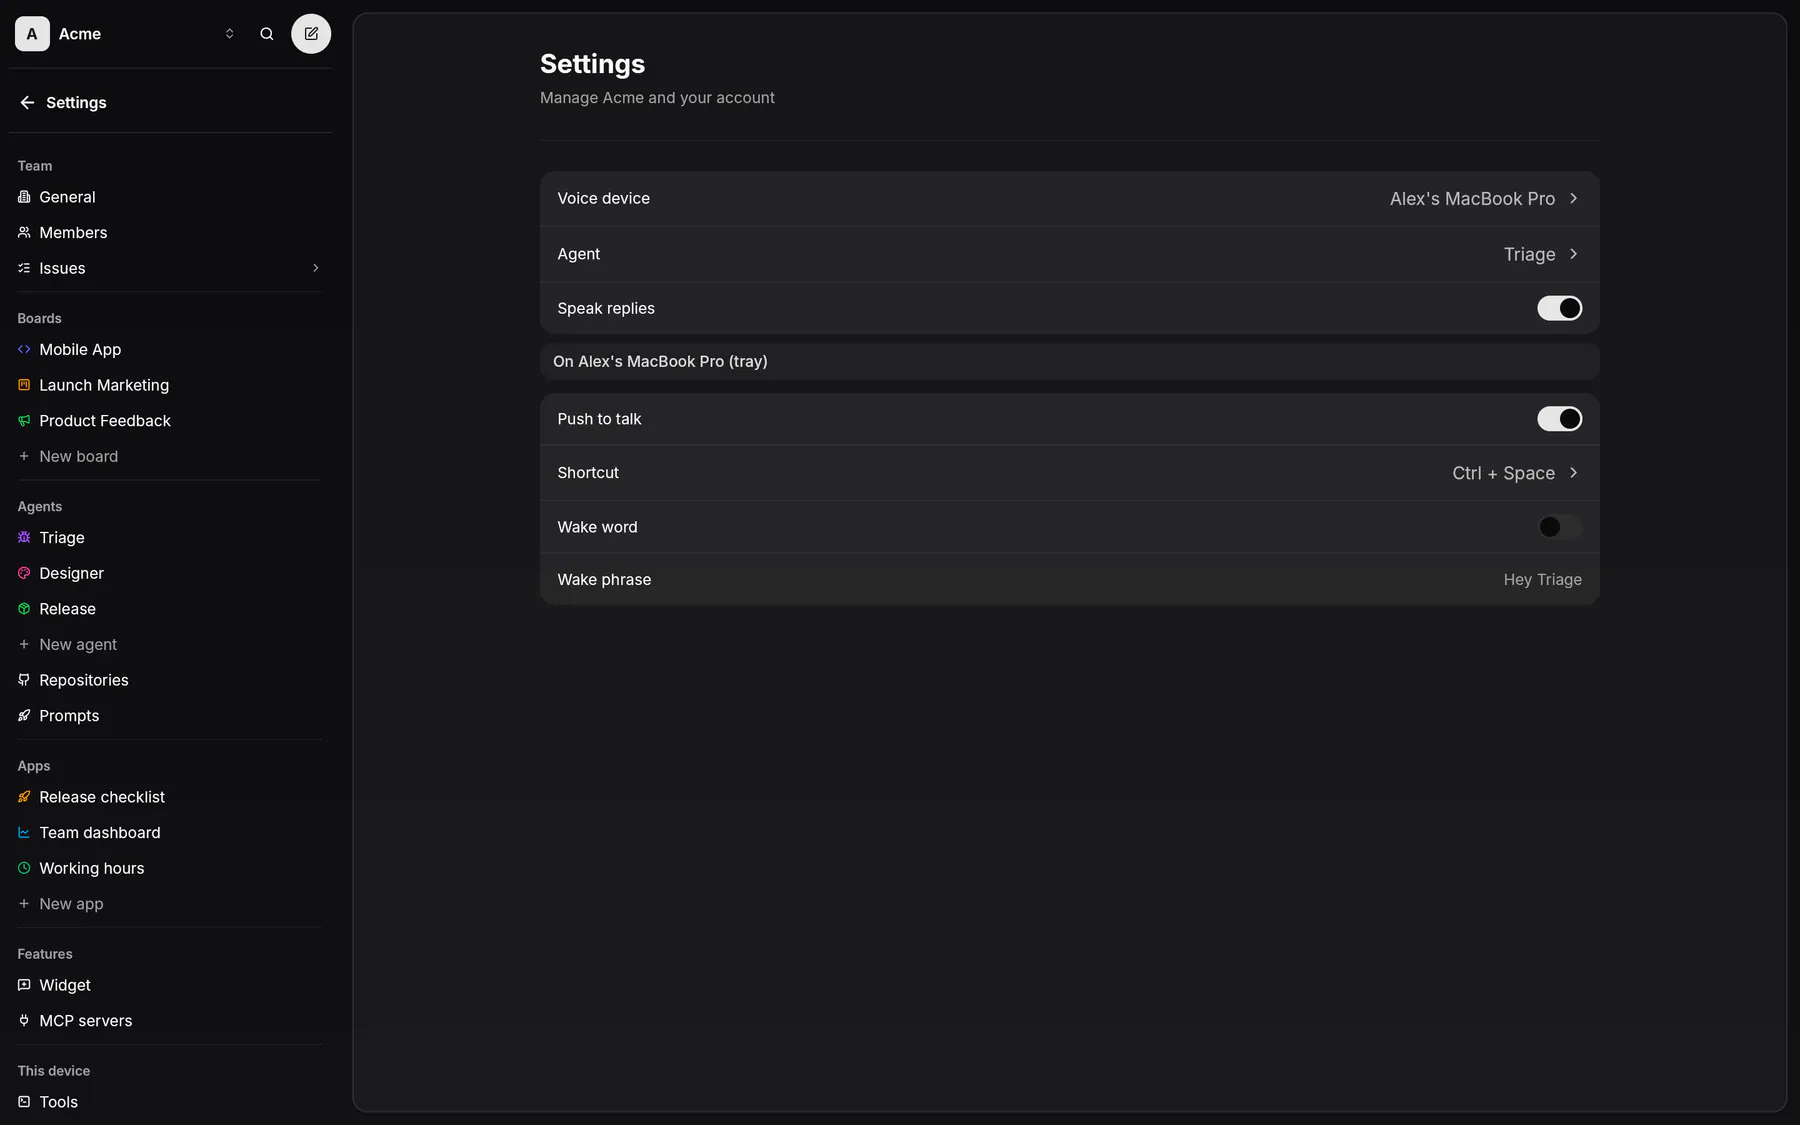
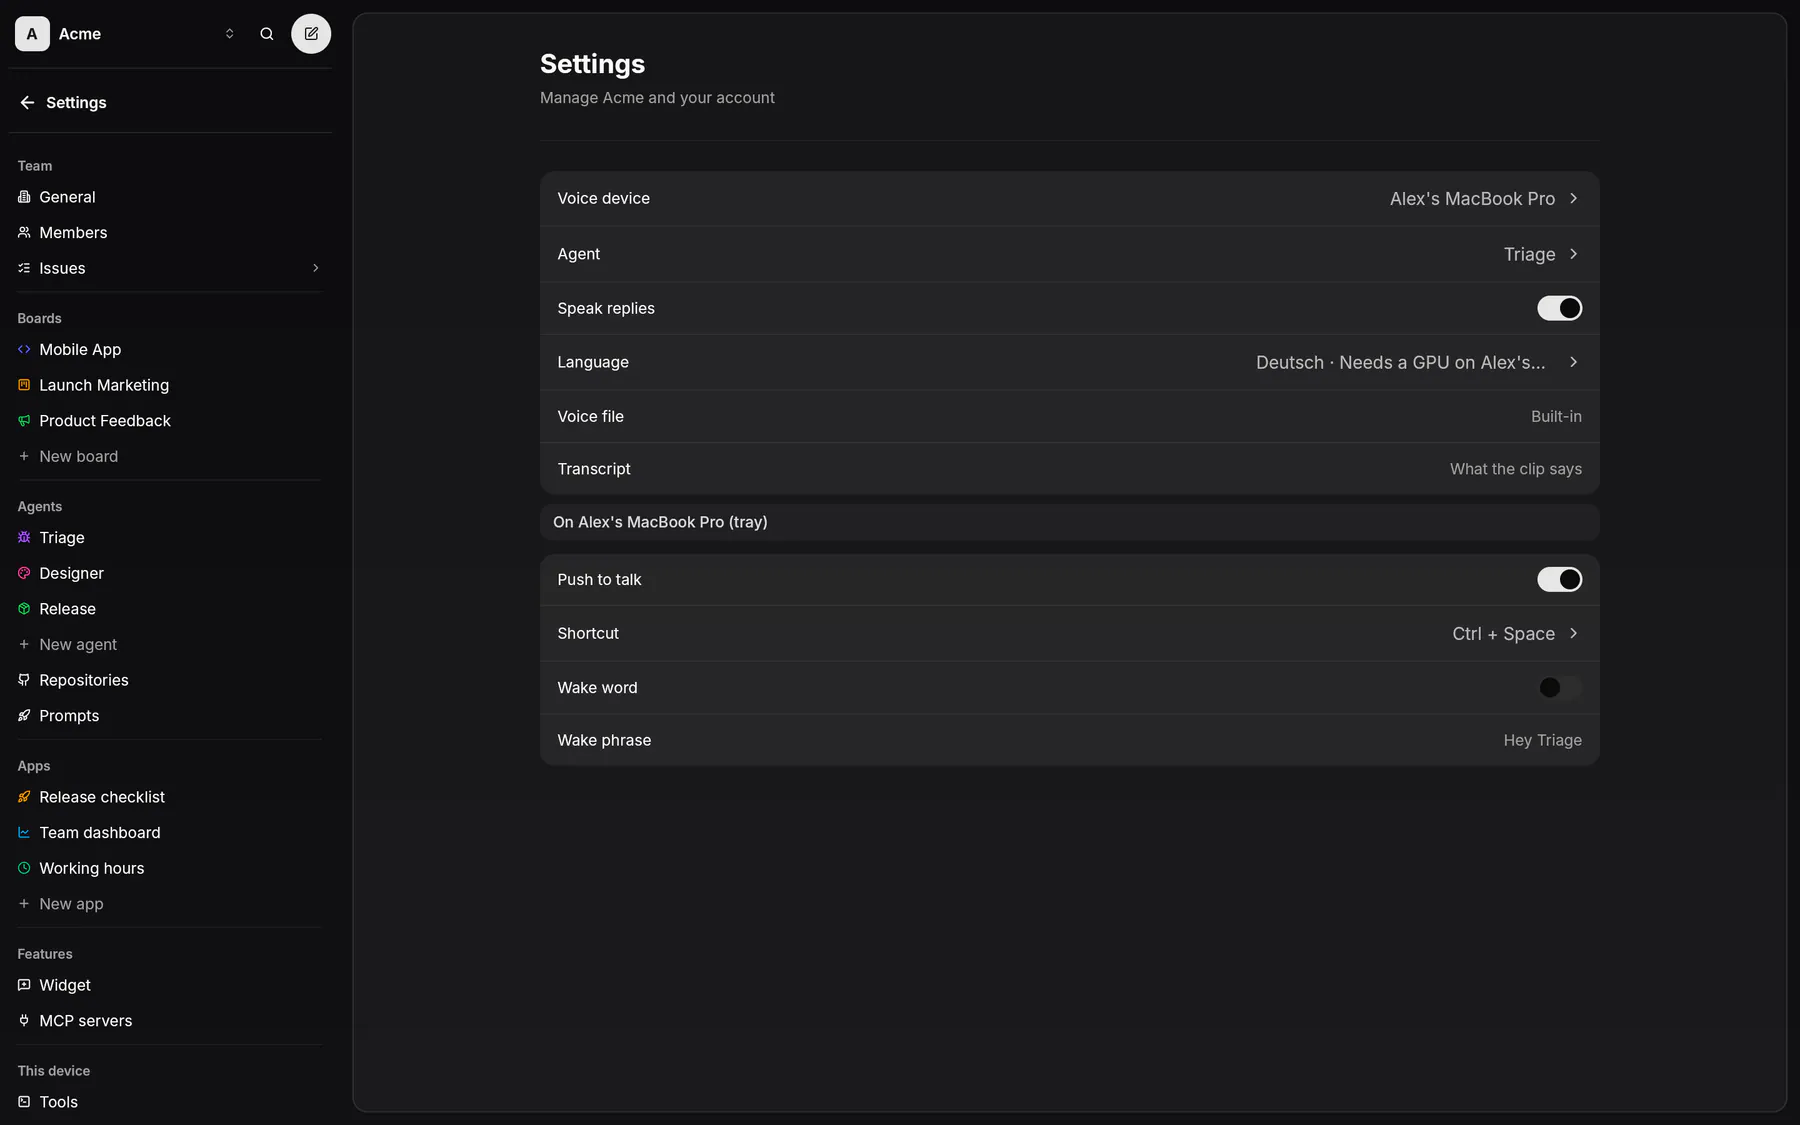
NEW-73: settings-voice shots (German in the demo row shows the GPU note)

diff --git a/apps/web/scripts/seed-screenshots.ts b/apps/web/scripts/seed-screenshots.ts
@@ -2526,6 +2526,10 @@ async function main() {
     pttShortcut: `ctrl+space`,
     wakeWord: false,
     wakePhrase: ``,
+    // #NEW-73: German shows the Language row's GPU note in the capture.
+    language: `de`,
+    voiceFile: ``,
+    voiceTranscript: ``,
   }
   await db
     .insert(userVoiceSettings)
